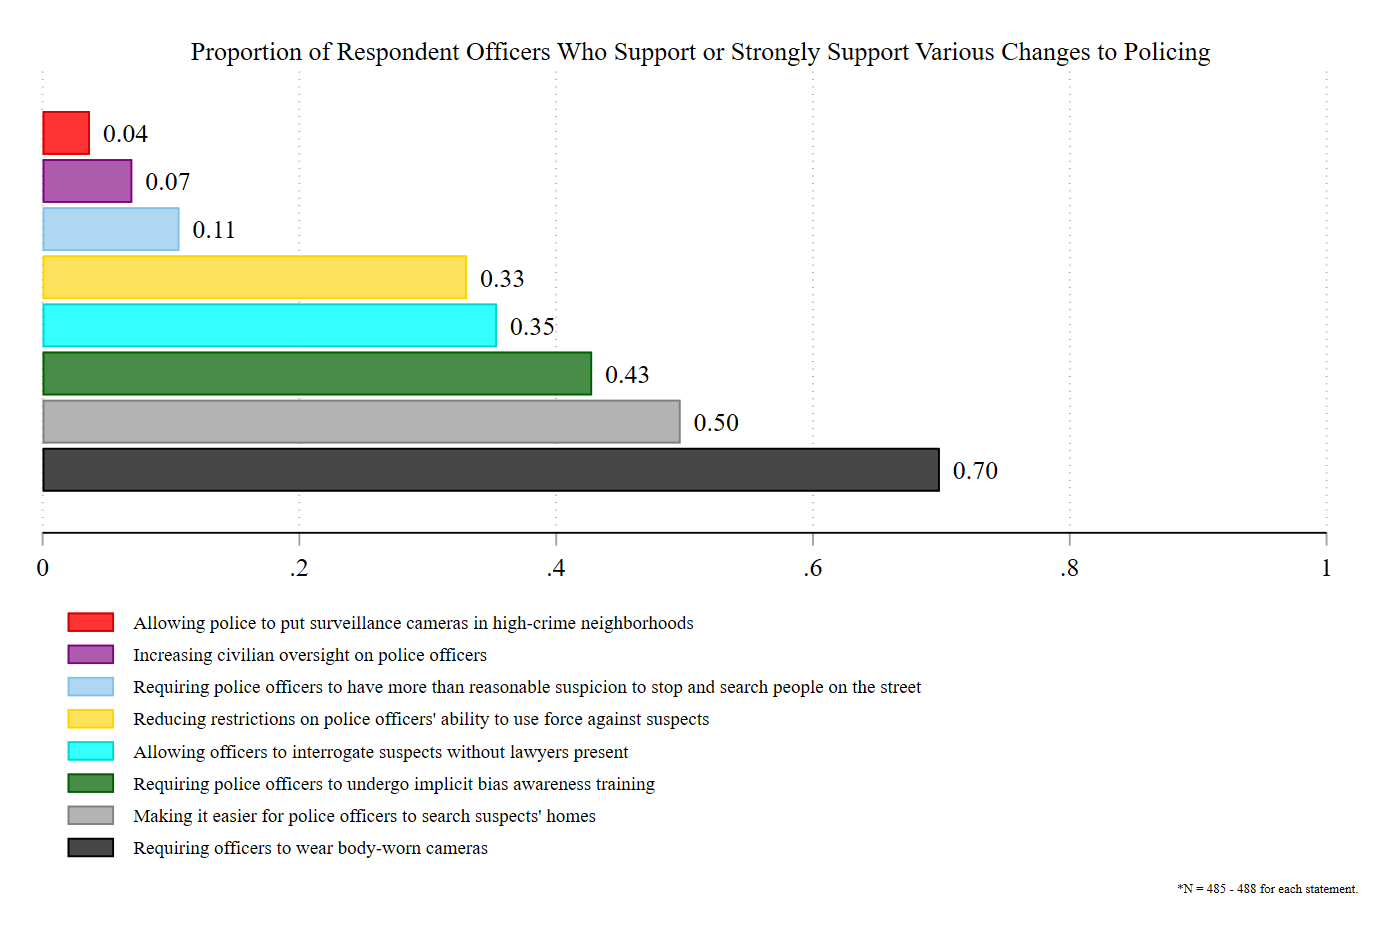
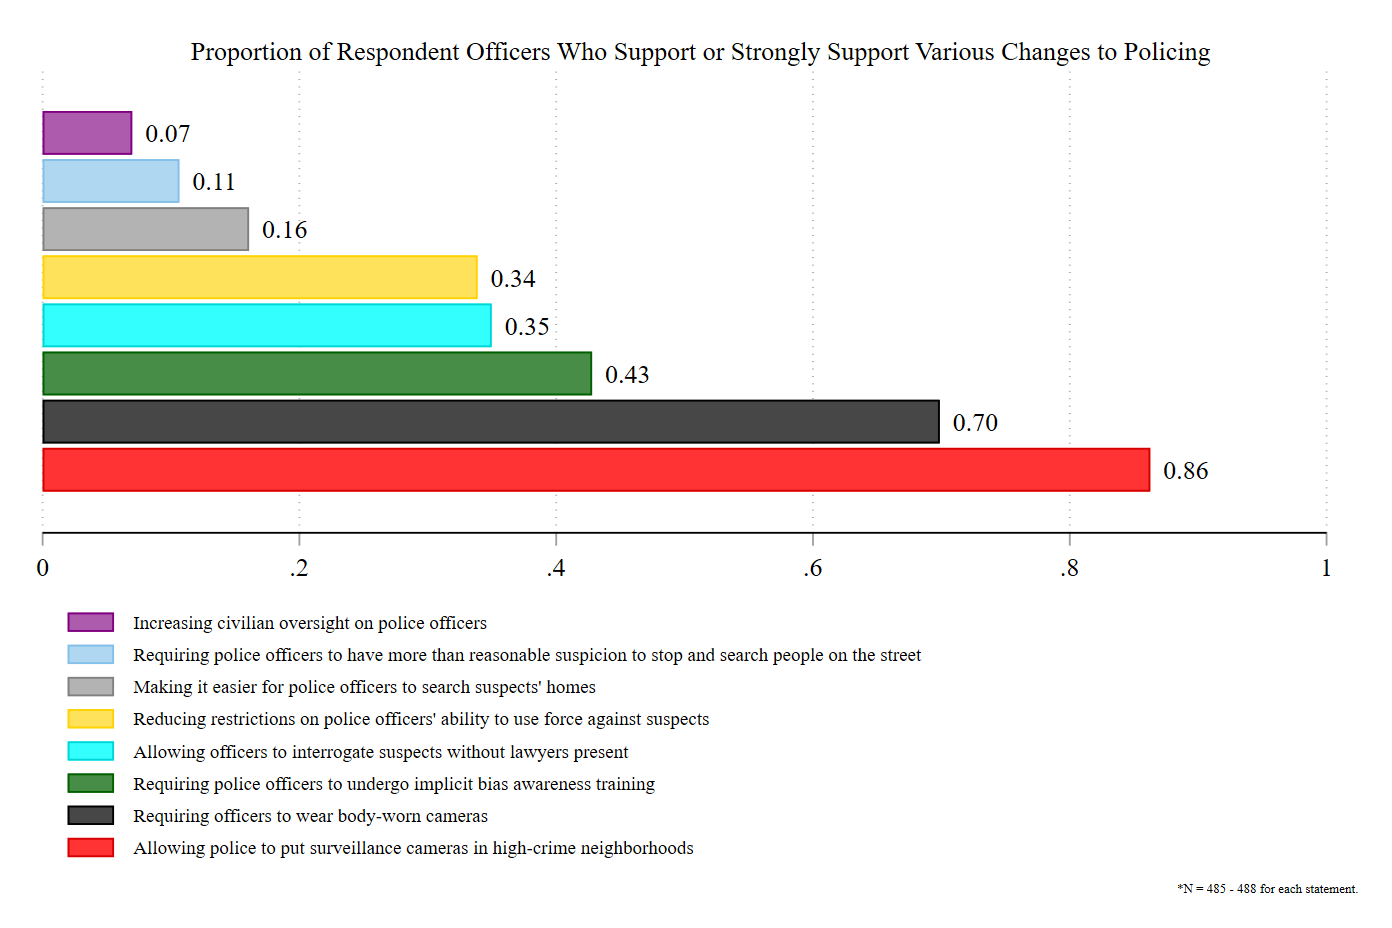
fix coding error for surveillance and searching homes

diff --git a/content/post/post15-police-reforms/index.md b/content/post/post15-police-reforms/index.md
@@ -28,13 +28,14 @@ Response options were *strongly support, support, neither support or oppose, opp
 
 ![bar](/img/blog15_reforms.png)
 
-Perhaps unsurprisingly, requiring officers to wear body-worn cameras had by far the most support. Equally unsurprising, to me at least, was that only 7% of officers supported increasing civilian oversight of the police, and only 11% supported requiring more than reasonable suspicion to initiate a stop. 
+Perhaps unsurprisingly, requiring officers to wear body-worn cameras had a great deal of support. Equally unsurprising, to me at least, was that only 7% of officers supported increasing civilian oversight of the police, and only 11% supported requiring more than reasonable suspicion to initiate a stop. 
 
-But check out some of the others. Fifty percent of officers supported making it easier to search suspects' homes. Thirty-three percent supported loosening restrictions on their ability to use force against suspects. 
+But check out some of the others. Fifty percent of officers supported making it easier to search suspects' homes. Thirty-three percent supported loosening restrictions on their ability to use force against suspects. And **86% supported allowing police to put surveillance cameras in high-crime neighborhoods**. 
 
-For the most part, there were no discernable differences in support across officer race, gender, or education. There were two exceptions, though:
+For the most part, there were no discernable differences in support across officer race, gender, or education. There were a few exceptions, though:
 
-* 18% of nonwhite officers supported requiring more than reasonable suspicion to make a stop, versus just 7% of white officers (t = 3.38, p < .001)
+* 18% of nonwhite officers supported requiring more than reasonable suspicion to make a stop, versus just 7% of white officers (t = 3.38, p < .001).
 * 50% of nonwhite officers supported requiring implicit bias awareness training, versus 39% of white officers (t = 2.04, p = .04). 
+* 59% of women supported requiring implicit bias awareness training, versus 41% of men (t = 2.31, p = .02; note the possibility of small sample bias here - women made up just 10% of the sample).
 
 The usual limitations, of course: it's just one agency and it's only the 31% who agreed to take our survey. Furthermore, this was all done in 2018, a lifetime ago. So interpret with caution.
